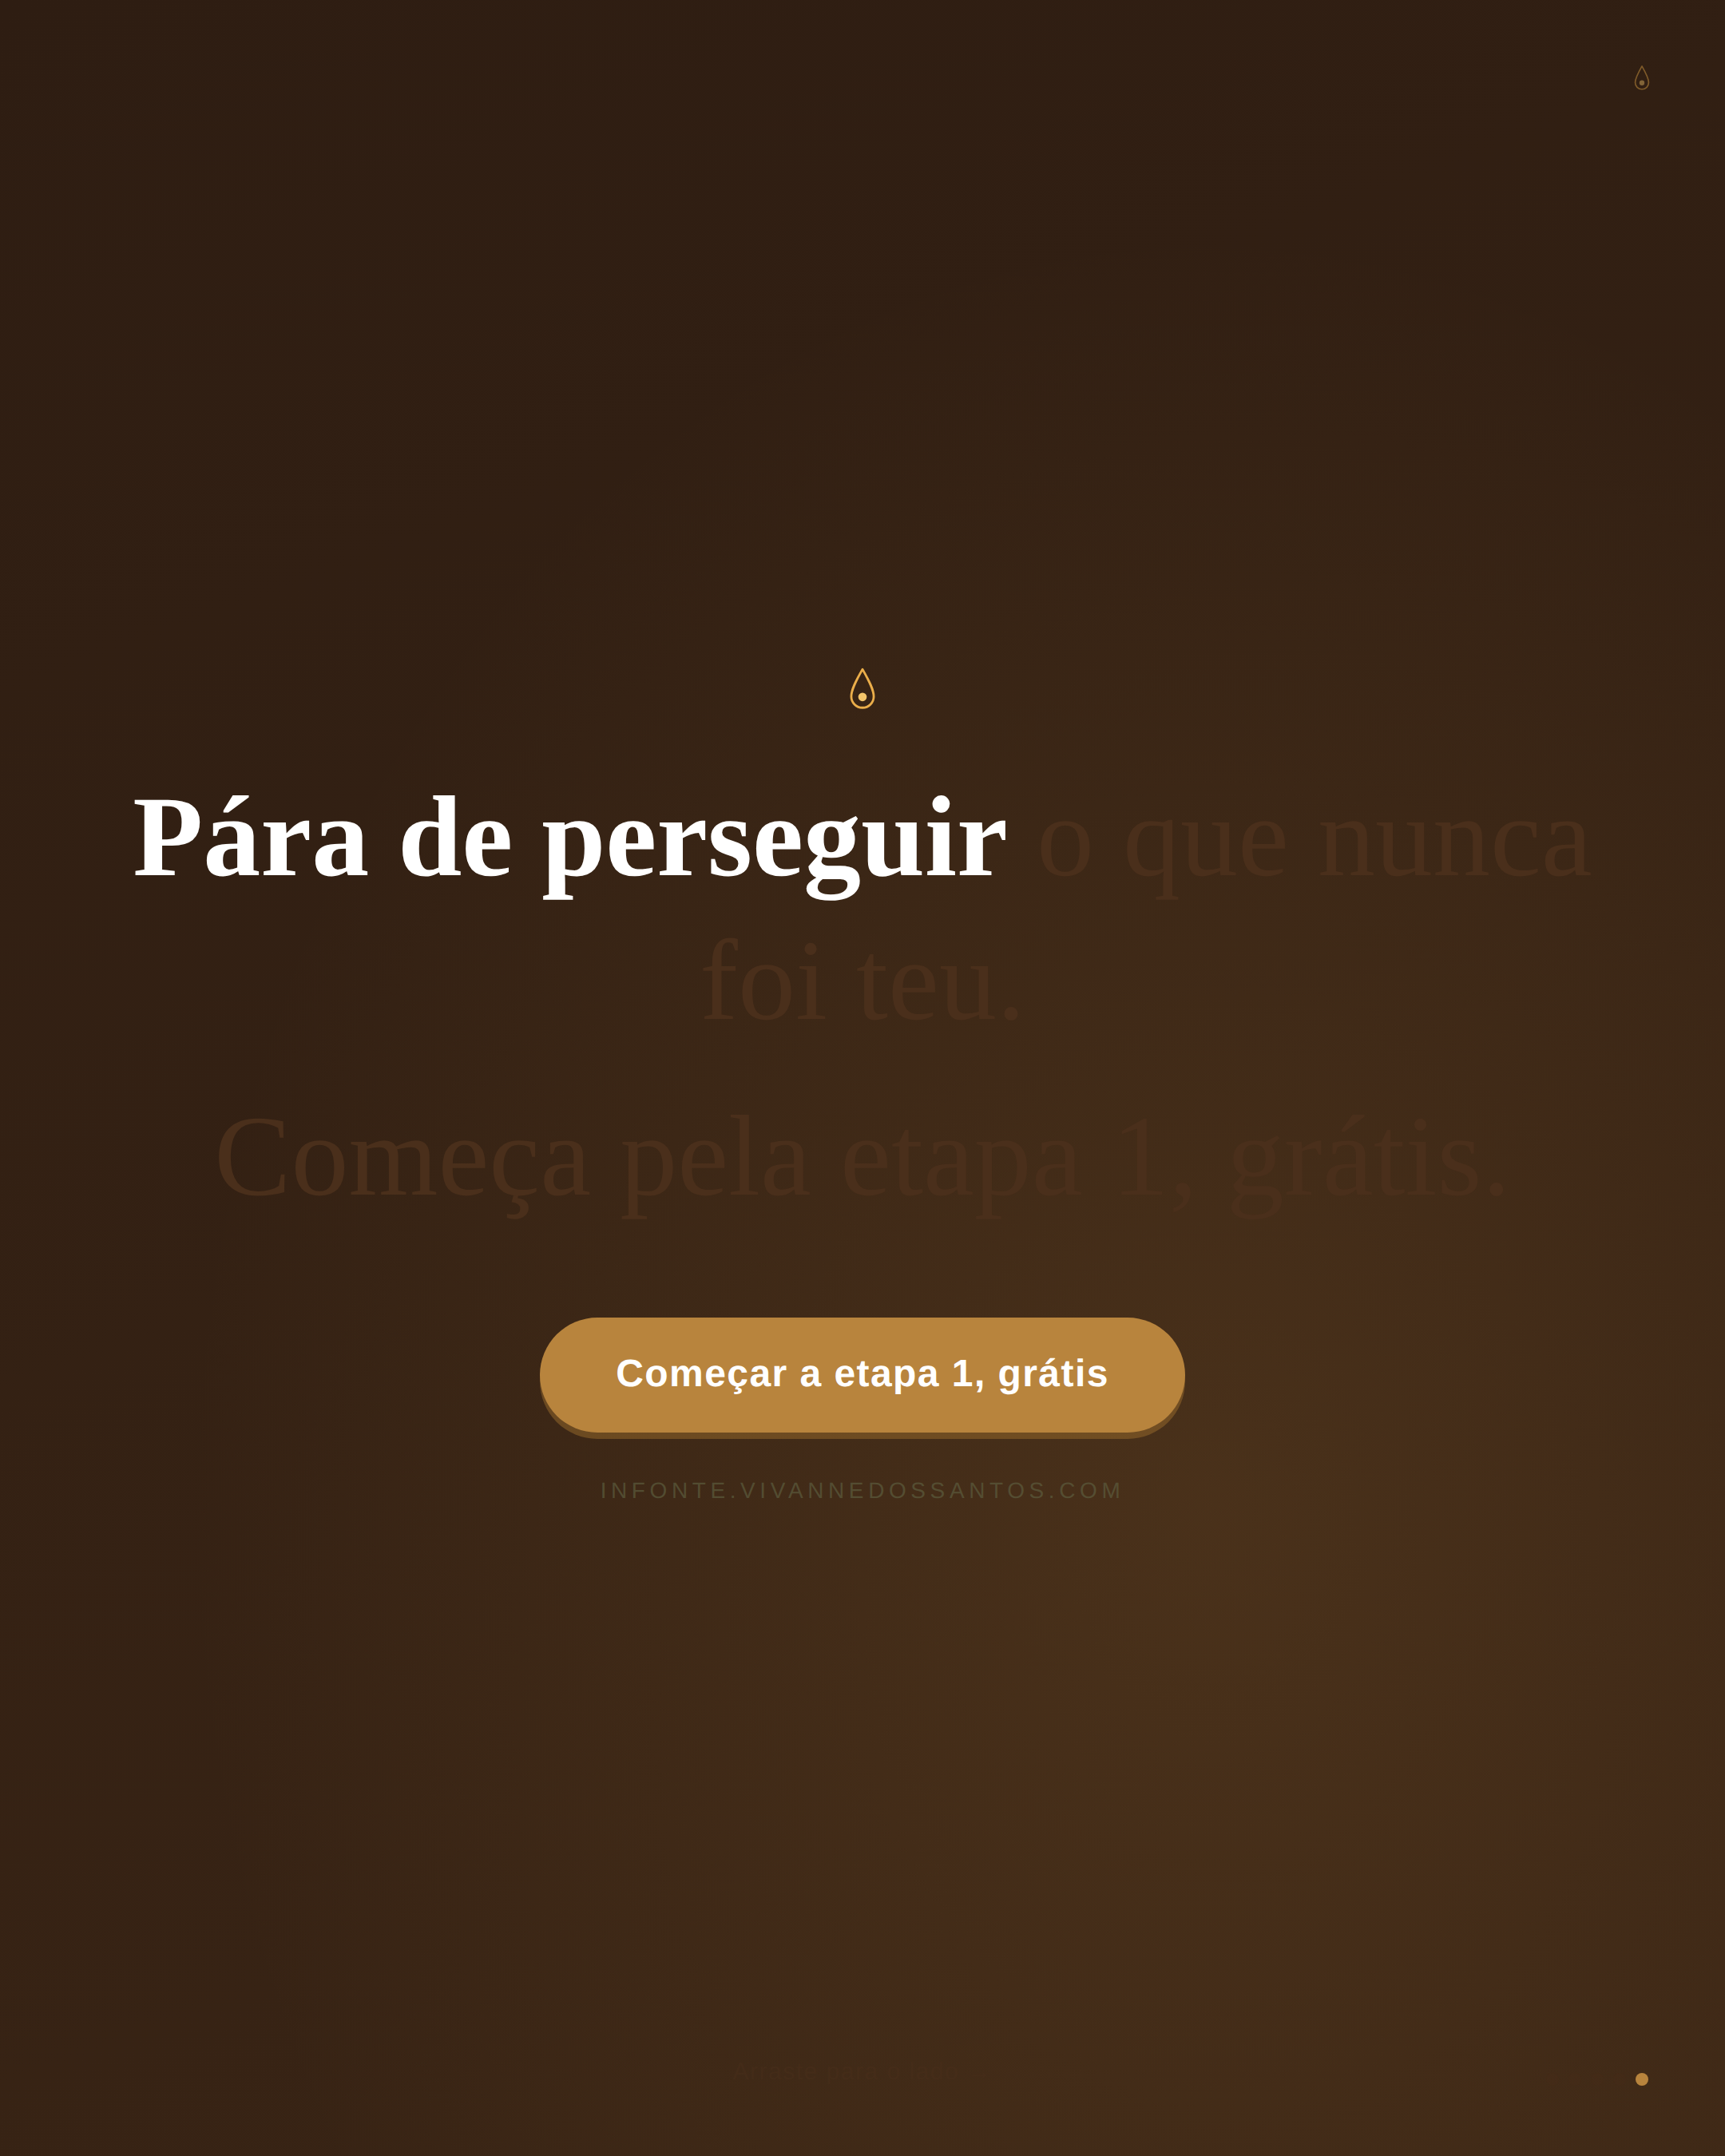
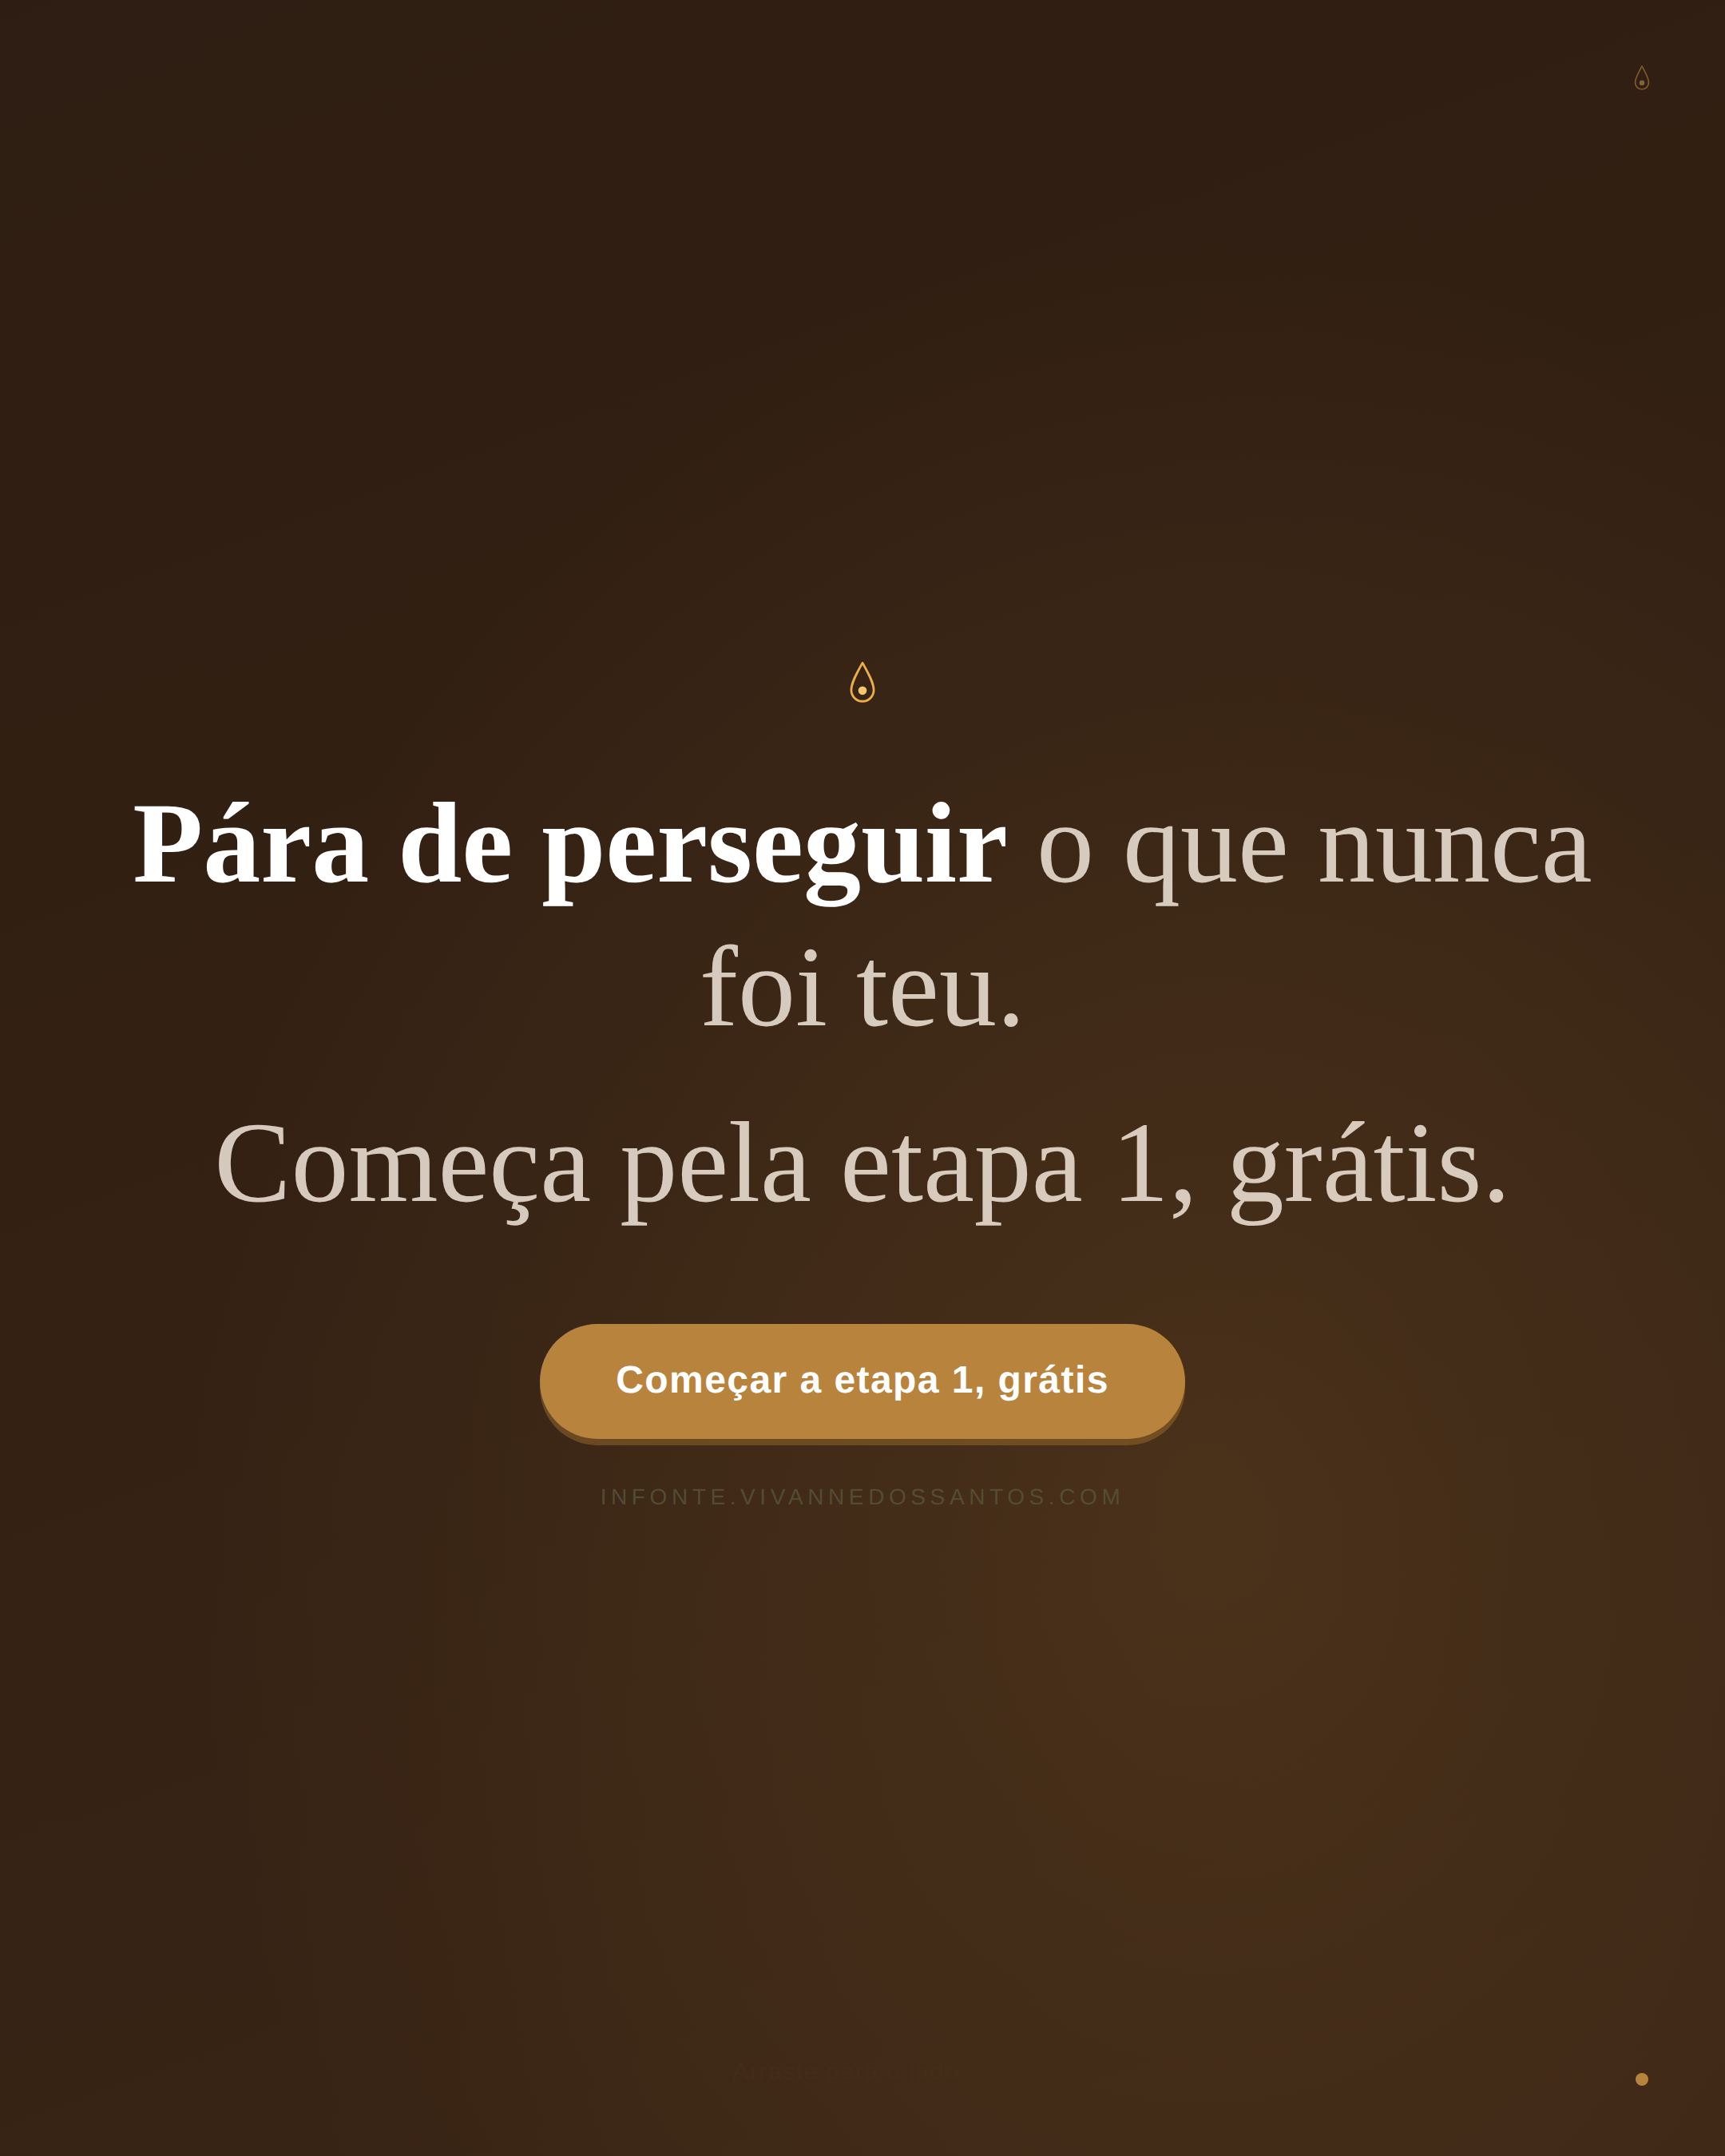
Fix: padding dos slides e contraste do CTA
- Padding uniforme 80px 72px em todos os tipos de slide (o conteúdo
  estava a cortar o label no lado esquerdo)
- Texto do CTA agora em rgba(242,232,220,0.85) em vez de quase
  invisível, bold em branco puro para as palavras-chave

diff --git a/src/lib/render-slides.ts b/src/lib/render-slides.ts
@@ -84,6 +84,7 @@ function slideHtml(opts: {
 
   const textColor = isCapa || usaFoto ? "rgba(242,232,220,0.95)" : CASTANHO;
   const boldColor = isCapa || usaFoto ? "#fff" : OCRE_FORTE;
+  const ctaTextColor = "rgba(242,232,220,0.85)";
   const labelColor = AMBAR;
 
   return `<!DOCTYPE html>
@@ -101,7 +102,7 @@ body {
 .content {
   position:relative;z-index:1;
   display:flex;flex-direction:column;justify-content:center;
-  padding:${isCapa ? "80px 64px" : "72px 64px"};
+  padding:80px 72px;
   height:100%;
 }
 .label {
@@ -114,7 +115,8 @@ body {
   ${textShadow}
   font-weight:400;
 }
-.texto strong { color:${boldColor};font-weight:700; }
+.texto strong { color:${isCta ? "#fff" : boldColor};font-weight:700; }
+.cta-text { color:${ctaTextColor}; }
 .texto p { margin-bottom:${fontSize < 40 ? 14 : 20}px; }
 .marca {
   font-family:'EB Garamond',serif;font-size:26px;
@@ -175,8 +177,8 @@ body {
       </div>
     ` : isCta ? `
       <div style="text-align:center;">
-        <div style="margin-bottom:24px;">${GOTA_SVG}</div>
-        <div class="texto">${linhas.map((l) => `<p>${l}</p>`).join("")}</div>
+        <div style="margin-bottom:32px;">${GOTA_SVG}</div>
+        <div class="texto" style="color:${ctaTextColor};">${linhas.map((l) => `<p>${l}</p>`).join("")}</div>
         <div class="cta-btn">Começar a etapa 1, grátis</div>
         <div style="margin-top:28px;">
           <div class="sub">infonte.vivannedossantos.com</div>